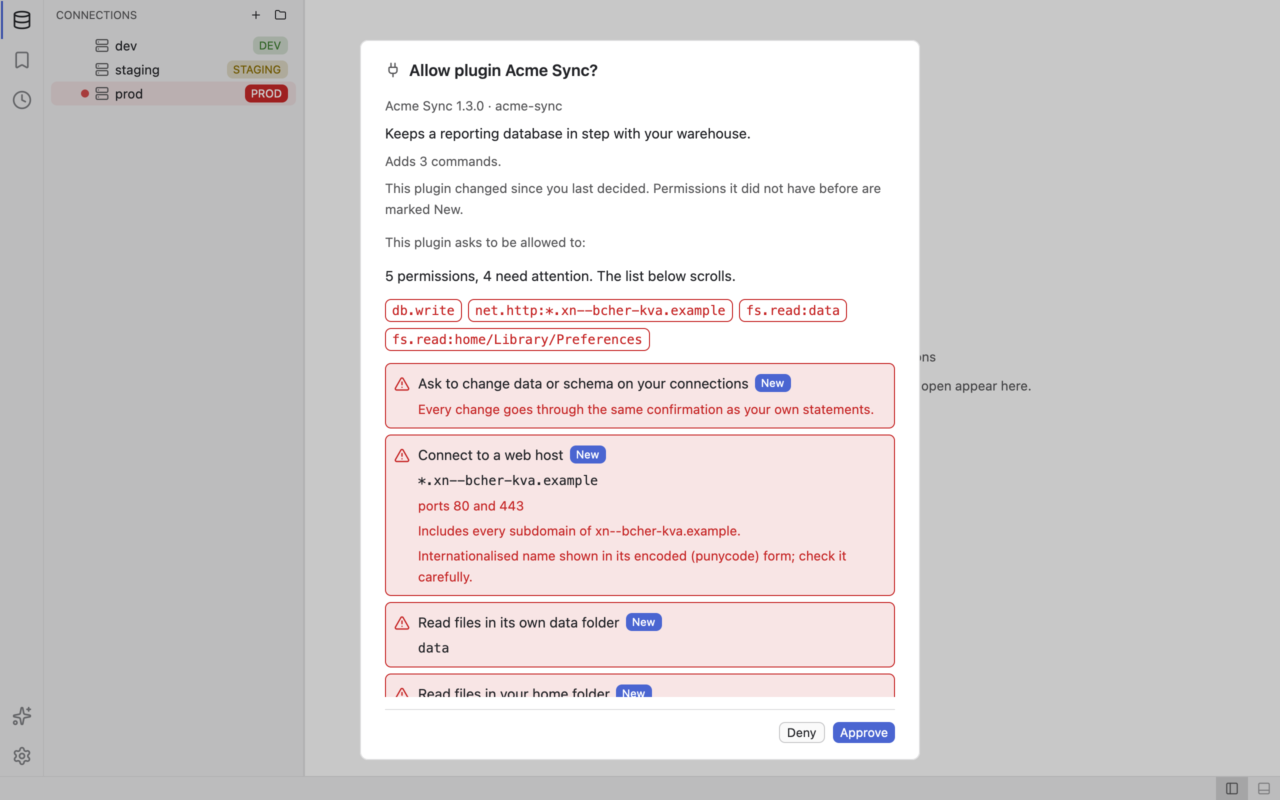
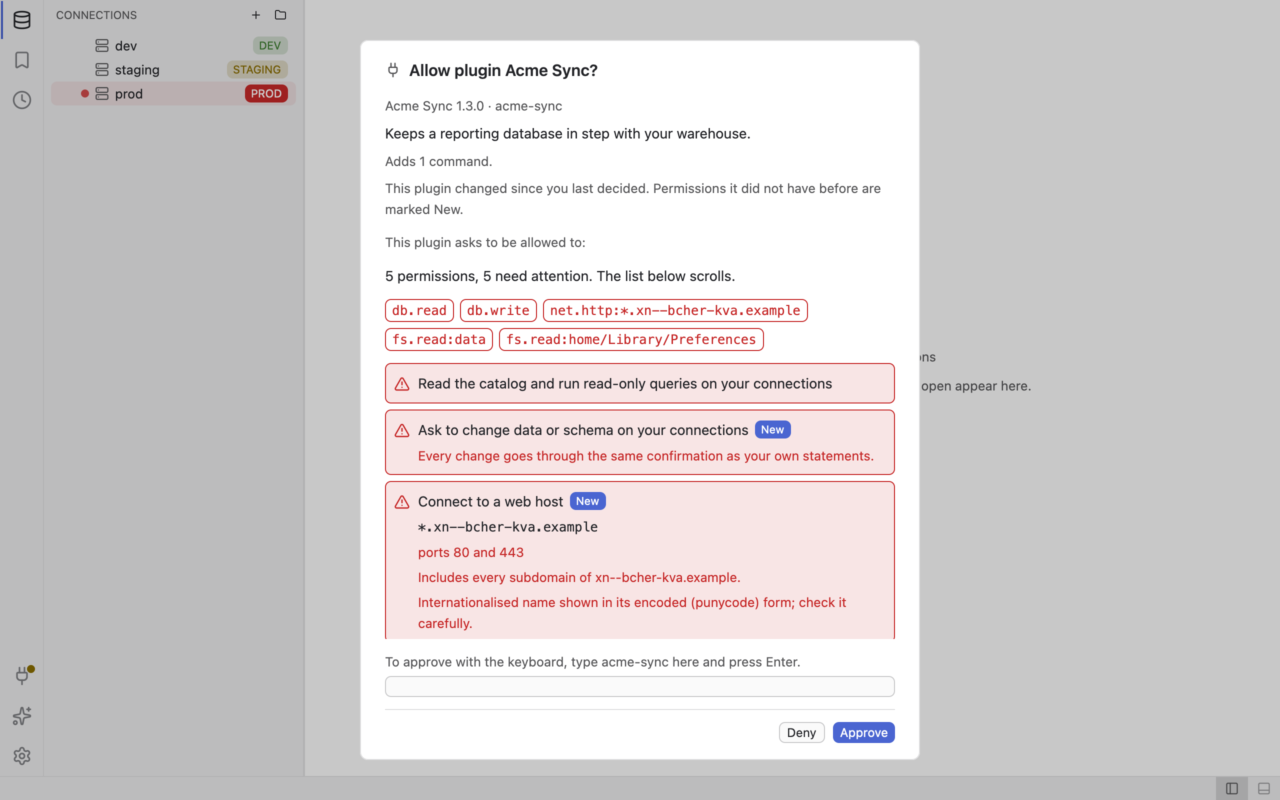
Plugins manager: flag db.read in the dialog and the list, plugin scenes

diff --git a/crates/sqler-ui/src/plugins/grant/prompt.rs b/crates/sqler-ui/src/plugins/grant/prompt.rs
@@ -477,12 +477,11 @@ fn line(capability: &Capability, previous: Option<&CapabilitySet>) -> Capability
     l
 }
 
-/// Whether a capability of `kind` needs attention. Only the calm kinds, which neither leave the
-/// machine nor reach files, other tools or drivers, are quiet: reading the catalog of the
-/// connections the user already opened and drawing the plugin's own panels. Everything else,
-/// including any kind added later, is shown with a warning, whatever its argument.
+/// Whether a capability of `kind` needs attention. Only drawing the plugin's own panels is quiet.
+/// Everything else, including reading the catalog of the user's connections (`db.read`) and any
+/// kind added later, is shown with a warning, whatever its argument.
 fn needs_attention(kind: CapabilityKind) -> bool {
-    !matches!(kind, CapabilityKind::DbRead | CapabilityKind::UiPanel)
+    !matches!(kind, CapabilityKind::UiPanel)
 }
 
 fn fs_line(
@@ -634,7 +633,7 @@ mod tests {
         }
         assert_eq!(only("driver.host:duckdb").detail.as_deref(), Some("duckdb"));
         assert!(only("db.write").prominent);
-        assert!(!only("db.read").prominent);
+        assert!(only("db.read").prominent);
         assert!(!only("ui.panel").prominent);
     }
 
@@ -668,10 +667,9 @@ mod tests {
 
     #[test]
     fn only_the_calm_kinds_are_quiet() {
-        for c in ["db.read", "ui.panel"] {
-            assert!(!only(c).prominent, "{c}");
-        }
+        assert!(!only("ui.panel").prominent);
         for c in [
+            "db.read",
             "db.write",
             "ai.tool",
             "driver.guest",
@@ -689,9 +687,8 @@ mod tests {
     #[test]
     fn db_read_with_a_web_host_is_not_calm() {
         let p = prompt_for(&["db.read", "net.http:attacker.example"]);
-        assert_eq!(p.attention_count(), 1);
-        assert_eq!(p.summary(), "2 permissions, 1 needs attention");
-        assert_eq!(p.lines()[0].capability, "net.http:attacker.example");
+        assert_eq!(p.attention_count(), 2);
+        assert_eq!(p.summary(), "2 permissions, 2 need attention");
     }
 
     #[test]
@@ -720,12 +717,12 @@ mod tests {
     #[test]
     fn the_summary_counts_permissions_and_warnings() {
         let p = prompt_for(&["db.read", "ui.panel", "fs.read:home/Library/x"]);
-        assert_eq!(p.summary(), "3 permissions, 1 needs attention");
-        let p = prompt_for(&["db.read", "fs.read:data", "fs.read:home/Library/x"]);
         assert_eq!(p.summary(), "3 permissions, 2 need attention");
+        let p = prompt_for(&["db.read", "fs.read:data", "fs.read:home/Library/x"]);
+        assert_eq!(p.summary(), "3 permissions, 3 need attention");
         assert_eq!(
             prompt_for(&["db.read"]).summary(),
-            "1 permission, none need attention"
+            "1 permission, 1 needs attention"
         );
         let p = prompt_for(&["fs.read:home/Library/x", "fs.read:home/AppData/y"]);
         assert_eq!(p.summary(), "2 permissions, 2 need attention");
@@ -772,7 +769,7 @@ mod tests {
         );
         assert!(p.is_reprompt());
         let prominent = p.lines().iter().take_while(|l| l.prominent).count();
-        assert_eq!(prominent, 2);
+        assert_eq!(prominent, 3);
         assert!(p.lines()[prominent..].iter().all(|l| !l.prominent));
         for l in p.lines() {
             assert_eq!(l.is_new, l.capability != "db.read", "{}", l.capability);
@@ -913,6 +910,6 @@ mod tests {
         assert!(p.lines().iter().any(|l| l.is_new));
         assert!(p.lines().iter().any(|l| !l.is_new));
         assert!(p.lines()[0].prominent);
-        assert_eq!(p.attention_count(), 4);
+        assert_eq!(p.attention_count(), 5);
     }
 }

diff --git a/crates/sqler-ui/src/plugins/manager/view.rs b/crates/sqler-ui/src/plugins/manager/view.rs
@@ -13,7 +13,7 @@ use gpui_component::button::Button;
 use gpui_component::input::{Input, InputState};
 use gpui_component::switch::Switch;
 use gpui_component::{ActiveTheme as _, Disableable as _, Sizable as _};
-use sqler_plugin_api::SettingValue;
+use sqler_plugin_api::{CapabilityKind, SettingValue};
 
 use super::RowGrant;
 use crate::plugins::PluginCommand;
@@ -172,17 +172,21 @@ fn list(view: &WorkspaceView, cx: &mut Context<WorkspaceView>) -> Div {
         let mut caps = div().flex().flex_row().flex_wrap().gap(px(SPACE[1]));
         for cap in row.manifest.capabilities().iter() {
             let granted = row.effective.contains(cap);
-            let color = if granted {
-                cx.theme().foreground
-            } else {
+            // `db.read` and `net.http` are marked: the first reads the user's data, the second can send it away.
+            let marked = matches!(cap.kind(), CapabilityKind::DbRead | CapabilityKind::NetHttp);
+            let color = if !granted {
                 muted_fg
+            } else if marked {
+                cx.theme().warning
+            } else {
+                cx.theme().foreground
             };
             caps = caps.child(
                 div()
                     .px(px(SPACE[1]))
                     .rounded(cx.theme().radius)
                     .border_1()
-                    .border_color(cx.theme().border)
+                    .border_color(if marked { color } else { cx.theme().border })
                     .font_family(cx.theme().mono_font_family.clone())
                     .text_size(px(ui_scale(cx).mono))
                     .text_color(color)

diff --git a/crates/sqler-ui/src/plugins/grant/view.rs b/crates/sqler-ui/src/plugins/grant/view.rs
@@ -575,8 +575,8 @@ mod tests {
         for (attention, total) in [(8, 10), (10, 32)] {
             let prompt = many(attention, total);
             assert_eq!(prompt.lines().len(), total);
-            // Everything but db.read needs attention.
-            assert_eq!(prompt.attention_count(), total - 1);
+            // Everything needs attention.
+            assert_eq!(prompt.attention_count(), total);
             let (_host, cx, _) = open(cx, prompt);
             for selector in [
                 "grant-summary",
